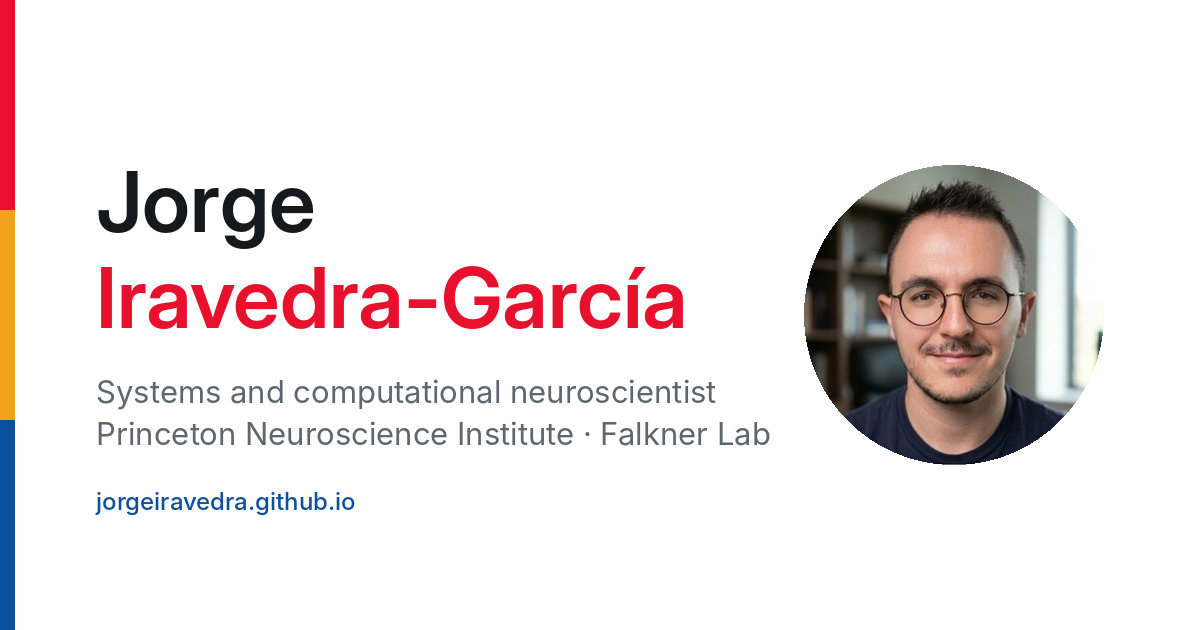
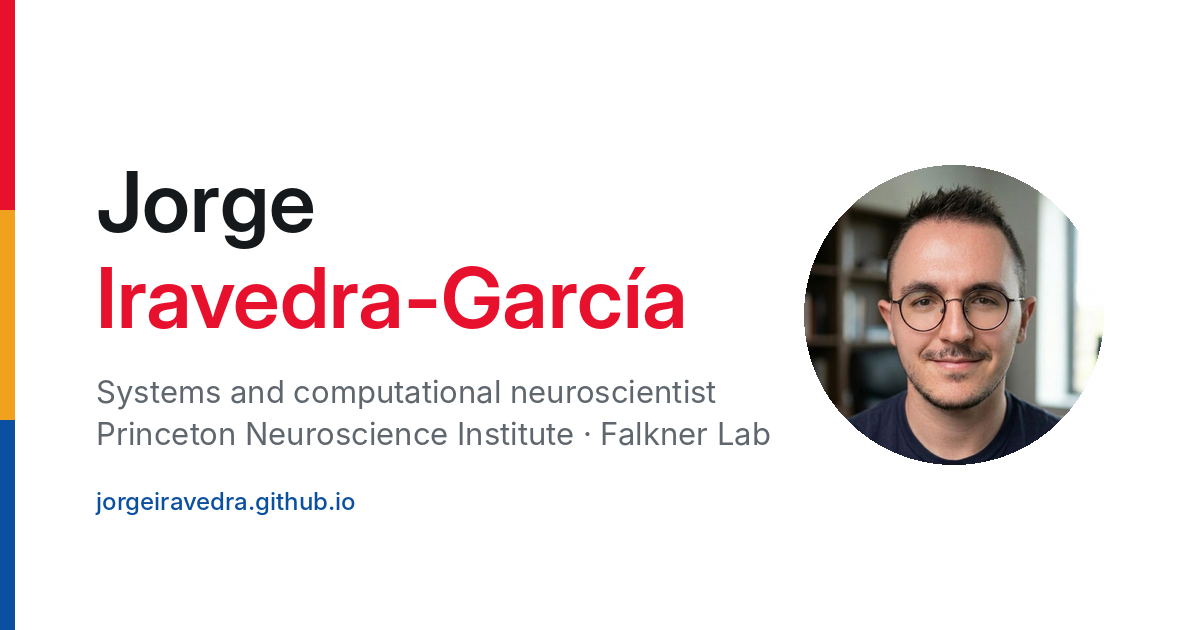
Add files via upload

Changed region(s): [[0.6783, 0.2714, 0.925, 0.754], [0.8942, 0.5127, 0.925, 0.5429], [0.74, 0.6635, 0.7708, 0.6937]]

diff --git a/index.html b/index.html
@@ -173,7 +173,9 @@ body::before { content: ""; position: fixed; inset: 0 0 auto; height: env(safe-a
 .media { position: relative; background: #050d11; border-bottom: 1px solid var(--line); }
 .media video { display: block; width: 100%; height: auto; }
 .media figcaption, .mediafig figcaption { font-size: 0.82rem; color: var(--muted); line-height: 1.45; padding: 0.7rem 0 0; }
-.media-row { padding: 0 clamp(1.5rem, 3vw, 2.5rem) clamp(1.5rem, 3vw, 2.5rem); }
+.media-row { display: grid; grid-template-columns: repeat(2, minmax(0, 1fr)); gap: clamp(1rem, 3vw, 2rem); align-items: start; padding: 0 clamp(1.5rem, 3vw, 2.5rem) clamp(1.5rem, 3vw, 2.5rem); }
+@media (max-width: 760px) { .media-row { grid-template-columns: 1fr; } }
+.paper { box-shadow: 0 1px 2px rgba(13, 26, 33, 0.06), 0 18px 40px -18px rgba(13, 26, 33, 0.35); background: #fff; }
 .media-row figure, .mediafig { margin: 0; min-width: 0; }
 .media-row video, .zoomable { display: block; width: 100%; height: auto; border-radius: 12px; border: 1px solid var(--line); background: var(--bg-2); }
 .zoomable { cursor: zoom-in; }
@@ -277,7 +279,7 @@ footer a:hover { color: var(--ink); }
       </div>
     </div>
     <div class="portrait-wrap">
-      <img class="portrait" src="headshot.jpeg" alt="Portrait of Jorge Iravedra-García" width="400" height="400">
+      <img class="portrait" src="headshot.jpg" alt="Portrait of Jorge Iravedra-García" width="400" height="400">
     </div>
   </div>
 </header>
@@ -341,8 +343,8 @@ footer a:hover { color: var(--ink); }
             <p class="summary">Social species learn about conflict without taking part in it, but whether watching recruits the same neural machinery as doing was unknown. Over eight days, male mice gained experience either by direct interaction with a weaker opponent, by watching those encounters from behind a barrier, or with a non-social object, while we recorded excitatory and inhibitory populations simultaneously across twelve nodes of the social behavior network. Observers attended selectively to attacks, and during watching their network activity resembled that of experienced animals, with distinct signatures in regions associated with reward and threat learning. Facing an unfamiliar, harder opponent on day nine, observers and experienced animals both responded faster and spent less time disengaged than controls, without becoming more aggressive overall, and their behavioral transition structure converged. Network modeling identified a shared, persistent decoupling of inhibition from a key hypothalamic output region; chemogenetically restoring that inhibition returned behavior toward the naive pattern.</p>
           </div>
           <figure class="mediafig">
-            <img class="zoomable" src="assets/nature-fig1-thumb.png" data-full="assets/nature-fig1.png" alt="Figure 1: targeting twelve sites in the social behavior network, two-color photometry traces, and attack-aligned responses" loading="lazy">
-            <figcaption>Figure 1. Click to enlarge.</figcaption>
+            <img class="zoomable paper" src="assets/nature-firstpage.png" alt="Opening page of the article as published in Nature" loading="lazy">
+            <figcaption>As published, 4 November 2026. Click to enlarge.</figcaption>
           </figure>
         </div>
         <div class="card-links">
@@ -358,6 +360,10 @@ footer a:hover { color: var(--ink); }
         <figure class="vidwrap">
           <video src="assets/nature-recording.mp4" poster="assets/poster-recording.jpg" autoplay muted loop playsinline preload="none" aria-label="Simultaneous photometry traces from ten regions during free social behavior"></video>
           <figcaption>Twelve-site photometry streaming during free behavior. Red and blue traces are the inhibitory and excitatory populations at each site; green is dopamine release in NAc.</figcaption>
+        </figure>
+        <figure>
+          <img class="zoomable" src="assets/nature-fig1-thumb.png" data-full="assets/nature-fig1.png" alt="Figure 2: targeting twelve sites in the social behavior network, two-color photometry traces, and attack-aligned responses" loading="lazy">
+          <figcaption>Figure 2. Targeting the network, the recording configuration, and attack-aligned responses across sites. Click to enlarge.</figcaption>
         </figure>
       </div>
     </article>
